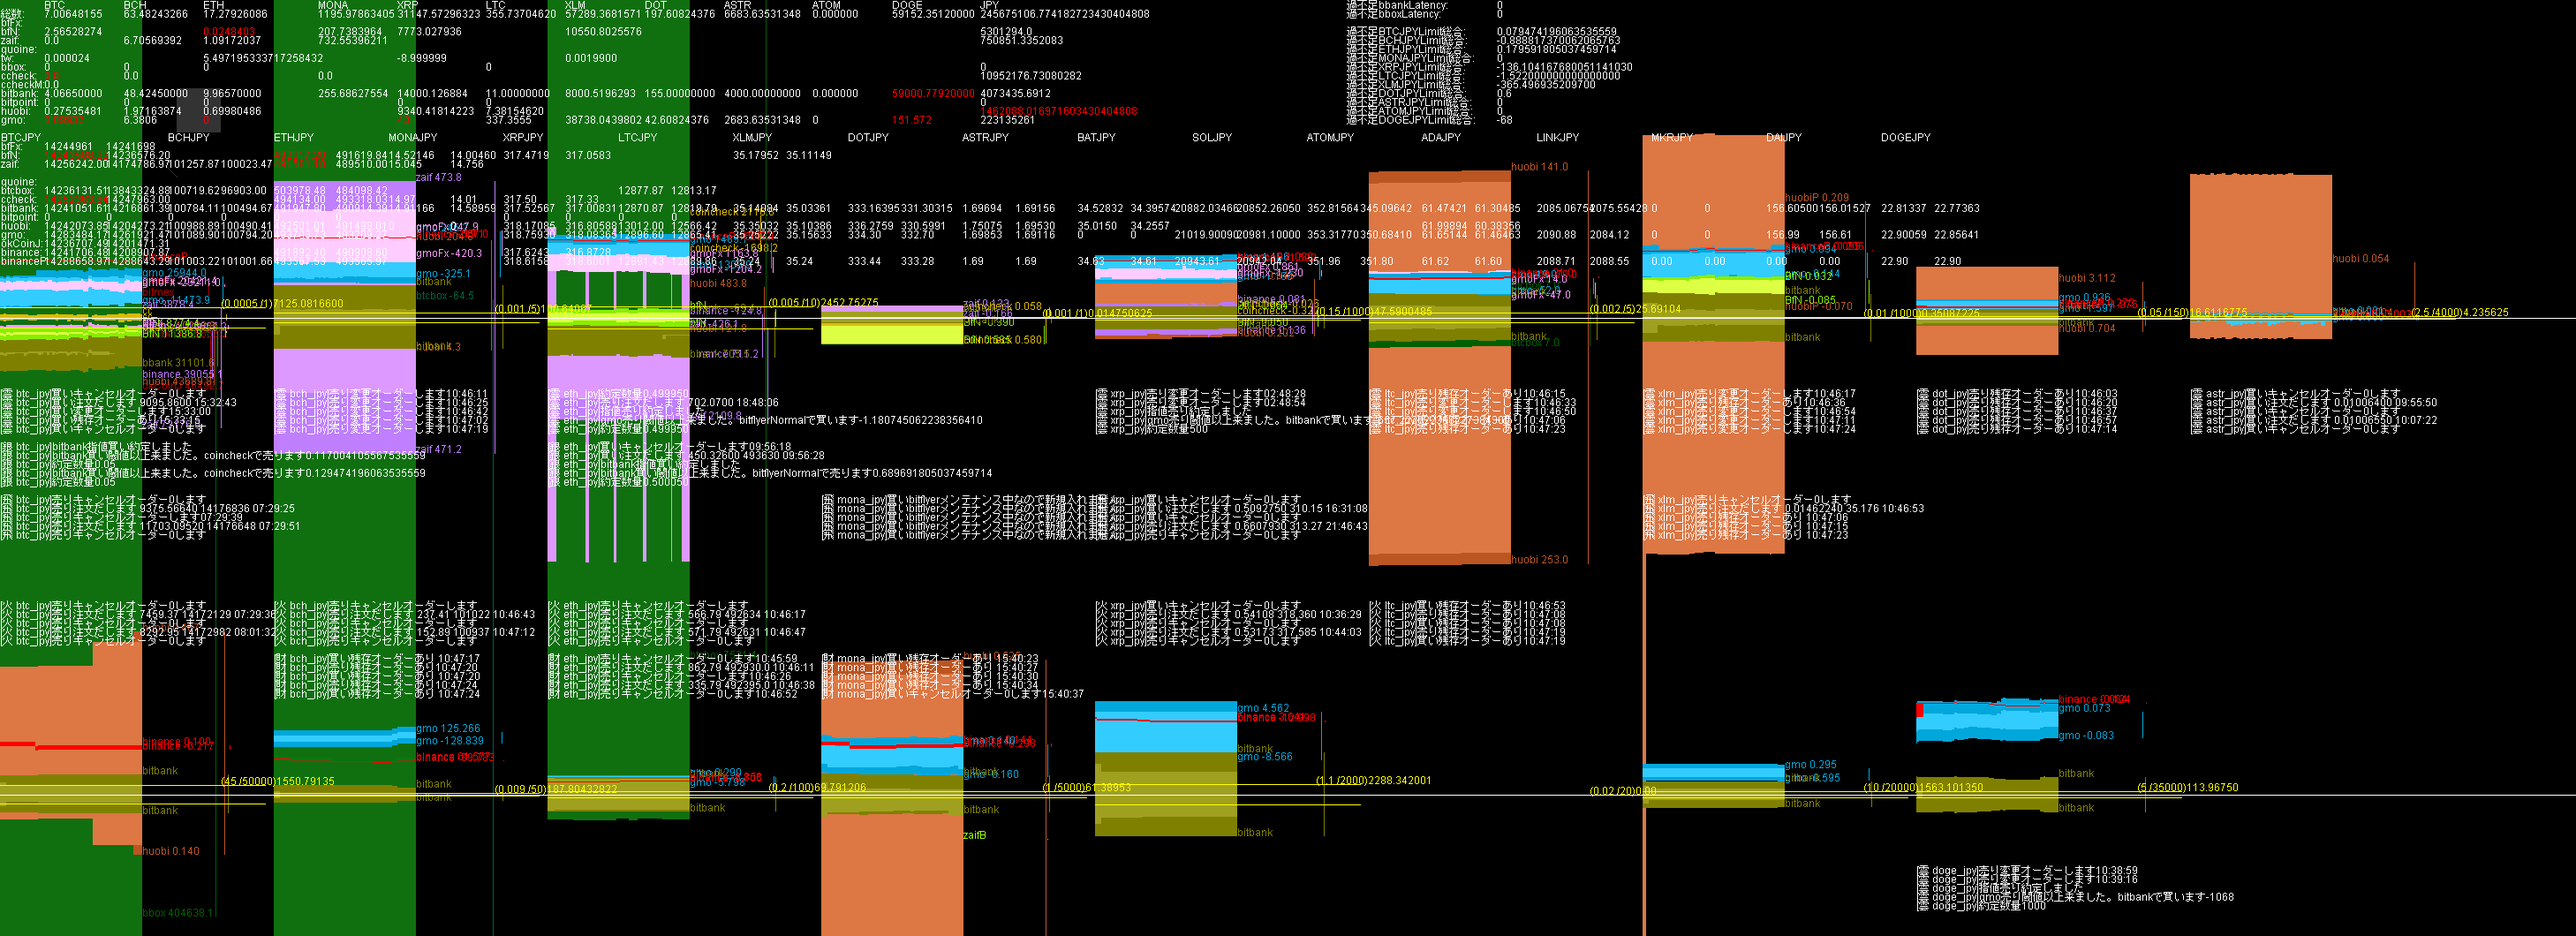
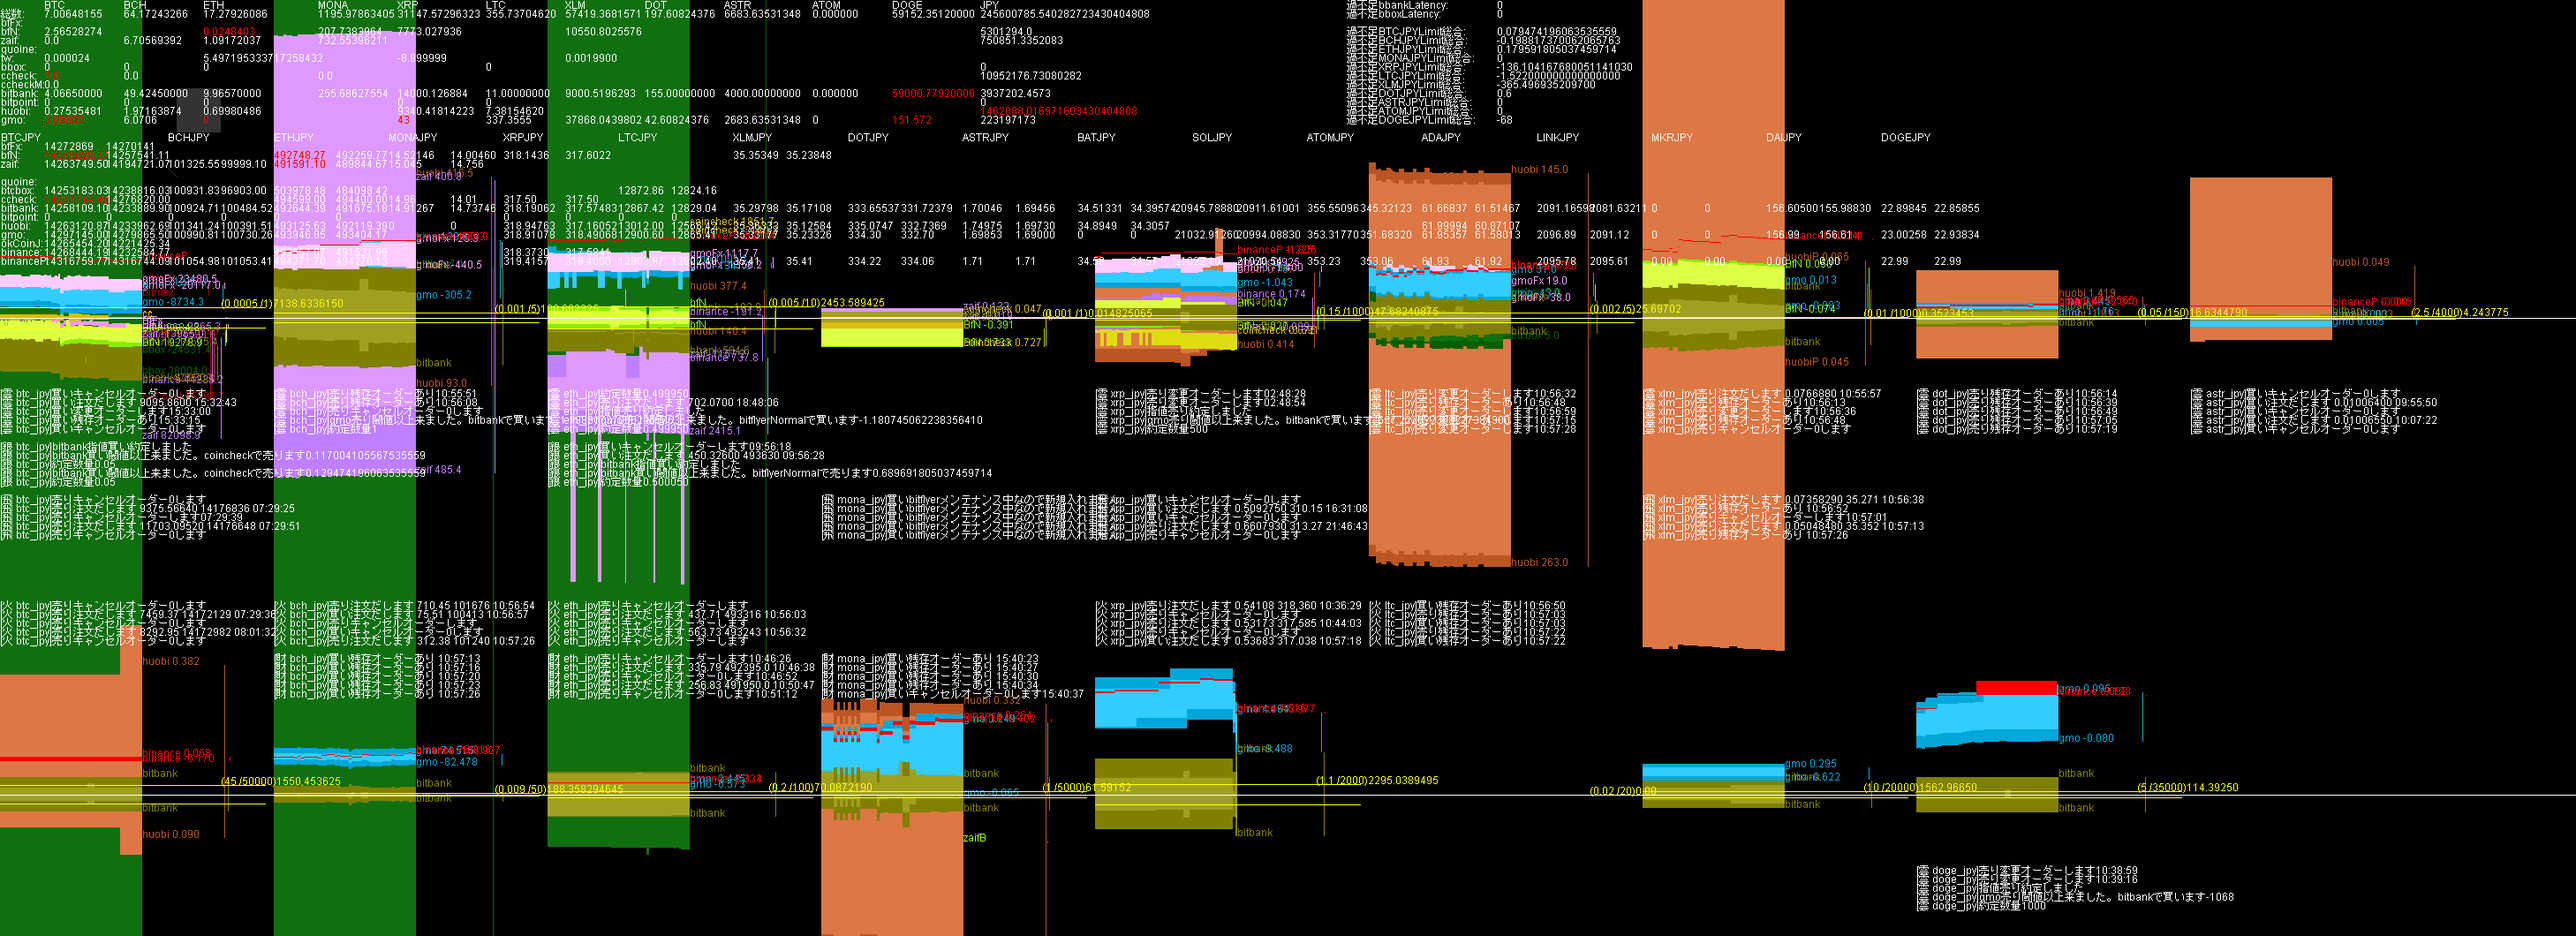
Update HTML file via Java

diff --git a/ca.html b/ca.html
@@ -16,6 +16,9 @@ th { background-color: #222; text-align: center; }
     <tr><th>ddhhmm</th><th>bfJPY</th><th>財JPY</th><th>ccJPY</th><th>銀JPY</th><th>火JPY</th><th>雲JPY</th><th>bfBTC</th><th>財BTC</th><th>ccBTC</th><th>銀BTC</th><th>火BTC</th><th>雲BTC</th><th>bfBCH</th><th>財BCH</th><th>ccBCH</th><th>銀BCH</th><th>火BCH</th><th>雲BCH</th><th>bfETH</th><th>財ETH</th><th>ccETH</th><th>銀ETH</th><th>火ETH</th><th>雲ETH</th><th>bfMONA</th><th>財MONA</th><th>ccMONA</th><th>銀MONA</th><th>火MONA</th><th>雲MONA</th><th>bfXRP</th><th>財XRP</th><th>ccXRP</th><th>銀XRP</th><th>火XRP</th><th>雲XRP</th><th>bfLTC</th><th>財LTC</th><th>ccLTC</th><th>銀LTC</th><th>火LTC</th><th>雲LTC</th><th>bfXLM</th><th>財XLM</th><th>ccXLM</th><th>銀XLM</th><th>火XLM</th><th>雲XLM</th><th>bfDOT</th><th>財DOT</th><th>ccDOT</th><th>銀DOT</th><th>火DOT</th><th>雲DOT</th><th>bfASTR</th><th>財ASTR</th><th>ccASTR</th><th>銀ASTR</th><th>火ASTR</th><th>雲ASTR</th><th>bfDOGE</th><th>財DOGE</th><th>ccDOGE</th><th>銀DOGE</th><th>火DOGE</th><th>雲DOGE</th>    </tr>  </thead>
   <tbody>
     <tr>
+<td>041057</td><td>00530</td><td>00075</td><td>01095</td><td>00393</td><td>00146</td><td>22319</td><td>02.57</td><td>00.00</td><td><span style="color: #ff69b4">00.00</span></td><td><span style="color: #4169e1">04.07</span></td><td><span style="color: #ff69b4">00.28</span></td><td><span style="color: #ff69b4">00.10</span></td><td>00.00</td><td>06.71</td><td>00.00</td><td>49.42</td><td>01.97</td><td>06.07</td><td><span style="color: #ff69b4">00.02</span></td><td>01.09</td><td>00.00</td><td>09.97</td><td>00.70</td><td><span style="color: #ff69b4">00.00</span></td><td>0207.7</td><td>0732.6</td><td>0000.0</td><td>0255.7</td><td>0000.0</td><td>0000.0</td><td>07773</td><td>00000</td><td>00000</td><td>14000</td><td>09340</td><td><span style="color: #ff69b4">00043</span></td><td>00.00</td><td>00.00</td><td>00.00</td><td>11.00</td><td>07.38</td><td>337.36</td><td>00.00</td><td>00.00</td><td>00.00</td><td>9000.52</td><td>00.00</td><td>37868.04</td><td>00.00</td><td>00.00</td><td>00.00</td><td>155.00</td><td>00.00</td><td>42.61</td><td>00.00</td><td>00.00</td><td>00.00</td><td>4000.00</td><td>00.00</td><td>2683.64</td><td>00.00</td><td>00.00</td><td>00.00</td><td><span style="color: #4169e1">59000.78</span></td><td>00.00</td><td><span style="color: #ff69b4">151.57</span></td>
+    </tr>
+    <tr>
 <td>041047</td><td>00530</td><td>00075</td><td>01095</td><td>00407</td><td>00146</td><td>22313</td><td>02.57</td><td>00.00</td><td><span style="color: #ff69b4">00.00</span></td><td><span style="color: #4169e1">04.07</span></td><td><span style="color: #ff69b4">00.28</span></td><td><span style="color: #ff69b4">00.10</span></td><td>00.00</td><td>06.71</td><td>00.00</td><td>48.42</td><td>01.97</td><td>06.38</td><td><span style="color: #ff69b4">00.02</span></td><td>01.09</td><td>00.00</td><td>09.97</td><td>00.70</td><td><span style="color: #ff69b4">00.00</span></td><td>0207.7</td><td>0732.6</td><td>0000.0</td><td>0255.7</td><td>0000.0</td><td>0000.0</td><td>07773</td><td>00000</td><td>00000</td><td>14000</td><td>09340</td><td><span style="color: #ff69b4">00043</span></td><td>00.00</td><td>00.00</td><td>00.00</td><td>11.00</td><td>07.38</td><td>337.36</td><td>00.00</td><td>00.00</td><td>00.00</td><td>8000.52</td><td>00.00</td><td>38738.04</td><td>00.00</td><td>00.00</td><td>00.00</td><td>155.00</td><td>00.00</td><td>42.61</td><td>00.00</td><td>00.00</td><td>00.00</td><td>4000.00</td><td>00.00</td><td>2683.64</td><td>00.00</td><td>00.00</td><td>00.00</td><td><span style="color: #4169e1">59000.78</span></td><td>00.00</td><td><span style="color: #ff69b4">151.57</span></td>
     </tr>
     <tr>
